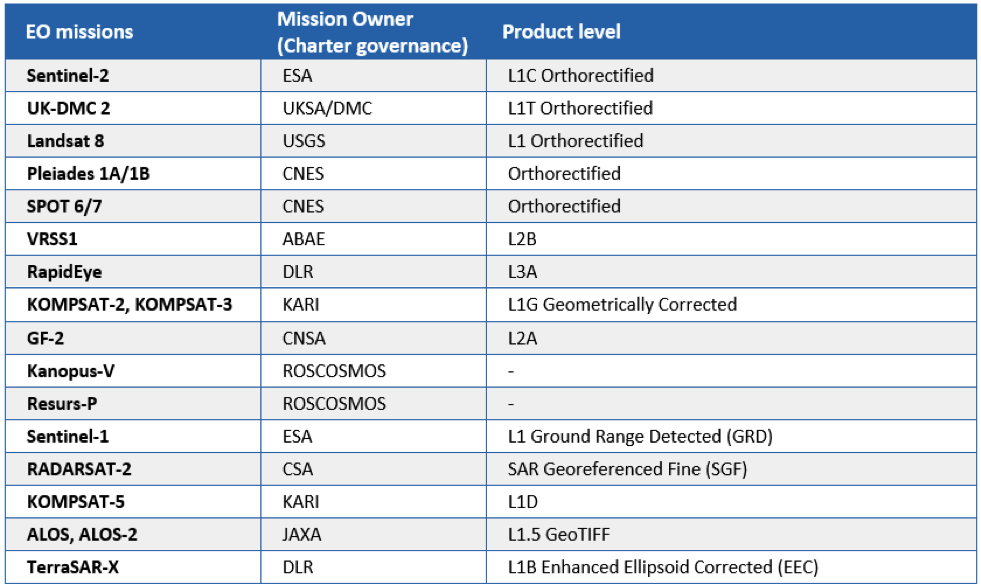
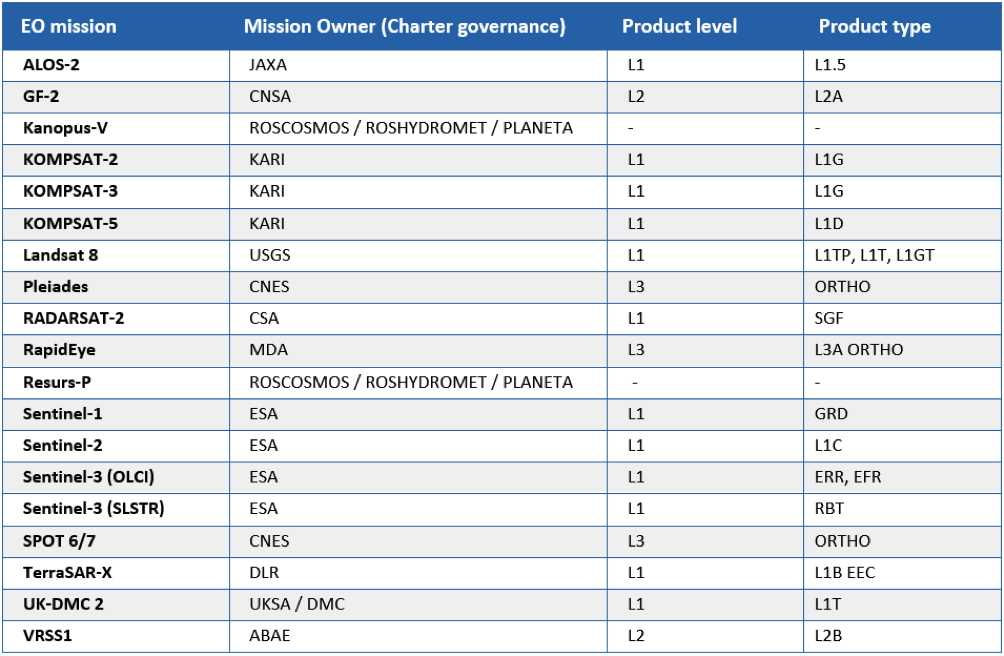
update COMBI tuto -- this refs #ESAGEP-652

Changed region(s): [[0.0, 0.0, 1.0, 1.0]]

diff --git a/source/tutorials/rss_combi.rst b/source/tutorials/rss_combi.rst
@@ -5,10 +5,9 @@ COMBI - Band Combination
         
 **Band Combination**
 
-This service provides the possibility to perform RGB band combination from user defined bands of single or multiple EO data products. The “Band Combination” processing service of the Charter Processing Platform Prototype is meant to give the possibility to derive user-defined band combinations from multi-mission Optical and SAR data. The processing chain of the service has been developed with the use of GDAL and SNAP software. The service supports optical and SAR detected products from the following missions: ALOS, ALOS-2, Kanopus-V, KOMPSAT-2, KOMPSAT-3, KOMPSAT-5, GF2, Landsat 8, Pleiades 1A/1B, RADARSAT-2, RapidEye, Resurs-P, Sentinel-1, Sentinel-2, SPOT 6, SPOT 7, TerraSAR-X, VRSS1 and UK-DMC 2.
+This service provides the possibility to perform RGB band combination from user defined bands of single or multiple EO data products. The “Band Combination” processing service of the Charter Processing Platform Prototype is meant to give the possibility to derive user-defined band combinations from multi-mission Optical and SAR data. The processing chain of the service has been developed with the use of GDAL and SNAP software. The service supports optical and SAR detected products from the following missions: ALOS-2, GF-2, Kanopus-V, KOMPSAT-2, KOMPSAT-3, KOMPSAT-5, Landsat 8 (OLI), Pleiades-1, RADARSAT-2, RapidEye, Resurs-P, Sentinel-1, Sentinel-2, Sentinel-3 (OLCI and SLSTR), SPOT 6/7, TerraSAR-X, UK-DMC 2 and VRSS1. 
 
-The output is comprising all 3 selected bands in a single RGB product at the resolution of the finest source band. All bands are in their native format (no radiometric correction applied) thus can serve only for fast screening of the data, not for further processing. The output RGB composite is displayed in geobrowser with the possibility to access product metadata and download it as a GeoTIFF file.
-
+The output is comprising all 3 selected bands in a single RGB product at the resolution of the finest source band. All bands are in their native format (no radiometric correction applied) thus can serve only for fast screening of the data, not for further processing. The output RGB composite is displayed in geobrowser with the possibility to access product metadata and download it as a GeoTIFF file. For selected sensors visualization enhancements are available.
 
 **Output specifications**
 
@@ -207,3 +206,90 @@ Hereinafter is described a procedure to obtain a RGB composite from the combinat
         :width: 750px
         :align: center 
  
+Enhanced RGB composite visualization
+====================================
+
+In order to improve the visualization of raster data, contrast enhancement of multispectral color composite is applied by stretching reflectance values across a portion or entire range of the raster histogram distribution. Histogram contrast stretching is a widely employed technique to visually enhance the appearance of the image. In this processor three different stretch types are applied:
+
+1.      Percent clip from 2 to 96 percent of histogram,
+2.      Minimum to Maximum,
+3.      Image stretching between 0 and 0.3 reflectance.
+
+As a result, the user will get as output the correspondent 3 RGB composite in GeoTIFF format:
+
+1.      RGB_MM_X_MM_Y_MM_Z.tif (default product),
+2.      RGB_MM_X_MM_Y_MM_Z_minmax.tif,
+3.      RGB_MM_X_MM_Y_MM_Z_browse.tif.
+
+in which “MM” stands for mission acronym (e.g. S2 for Sentinel-2), “X” for product band number for Red, “Y” for product band number for Green and “Z” product band number for Blue.
+
+.. figure:: assets/tuto_combi_14.png
+        :figclass: align-center
+        :width: 750px
+        :align: center 
+
+These three different outputs allow the user to choose the more effective RGB composite for the visualization of the image stack. This choice may be different according to cloud coverage percentage and or the surface heterogeneity of the scene.
+
+The enhanced RGB composite visualization is currently available only for the following sensors:
+
+•       Sentinel-2 (L1C, L2A),
+•       Sentinel-3 (EFR, ERR),
+•       Pleiades 1A/B,
+•       Kompsat-2,
+•       Kompsat-3,
+•       Landsat-8.
+ 
+Hereinafter is shown a sample result over the coast of Naples using the below combination of S2 products:
+
+1.      Red band product: S2B_MSIL1C_20190811T095039_N0208_R079_T33TVF_20190811T122017
+        Red band index: band_4
+2.      Green band product: S2B_MSIL1C_20190702T095039_N0207_R079_T33TVF_20190702T115813
+        Green band index: band_3
+3.      Blue band product: S2B_MSIL1C_20190612T095039_N0207_R079_T33TVF_20190612T115445
+        Blue band index: band_2
+
+Location map:
+
+.. figure:: assets/tuto_combi_15.png
+        :figclass: align-center
+        :width: 750px
+        :align: center 
+ 
+RGB_S2_4_S2_3_S2_2.tif – RGB combination 2-96 percent of histogram (RGB_S2_4_S2_3_S2_2.tif):
+
+.. figure:: assets/tuto_combi_16.png
+        :figclass: align-center
+        :width: 750px
+        :align: center 
+
+RGB combination – Min to Max (RGB_S2_4_S2_3_S2_2_MinMax.tif)
+ 
+.. figure:: assets/tuto_combi_17.png
+        :figclass: align-center
+        :width: 750px
+        :align: center 
+ 
+RGB_S2_4_S2_3_S2_2_QuickLook.tif – RGB composite - Stretched between 0 and 0.3
+ 
+.. figure:: assets/tuto_combi_18.png
+        :figclass: align-center
+        :width: 750px
+        :align: center 
+ 
+
+Service bands versus Platform bands
+===================================
+
+For a proper use of the COMBI service is worth to highlight the correspondences between the service band selection with the bands of some of the sensors supported by the service, such as Sentinel-2, Landsat 8 among others (see Table below for more complete information).
+
+.. figure:: assets/tuto_combi_19.png
+        :figclass: align-center
+        :width: 750px
+        :align: center 
+ 
+ 
+[1] ESA. SENTINEL-2 Radiometric Resolutions. https://sentinel.esa.int/web/sentinel/user-guides/sentinel-2-msi/resolutions/radiometric (Accessed 25th February 2020).
+[2] USGS. Landsat 8 band designations for the Operational Land Imager (OLI) and Thermal Infrared Sensor (TIRS). https://www.usgs.gov/media/images/landsat-8-band-designations (Accessed 24th February 2020).
+[3] Lachérade, S., Fourest, S., Gamet, P., & Lebègue, L. (2012). PLEIADES absolute calibration: inflight calibration sites and methodology. PAN, 1(B2), B3.
+[4]. ESA. GF-2 (Gaofen-2) High-resolution Imaging Satellite / CHEOS series of China https://directory.eoportal.org/web/eoportal/satellite-missions/g/gaofen-2 (Accessed 1sth March 2020).
+
